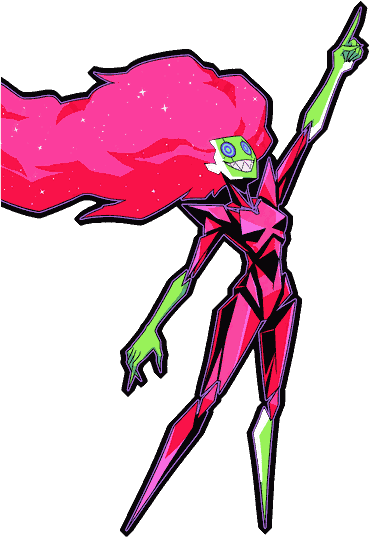
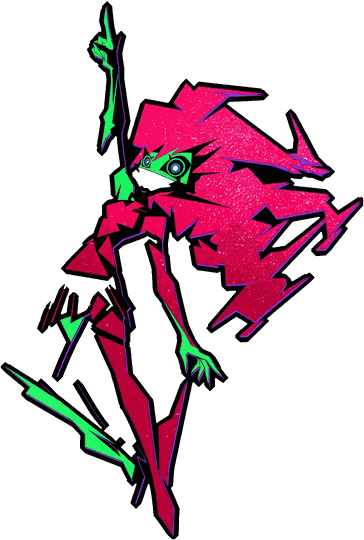
capri-shell 0.6.4: the point, redone on model

diff --git a/src/renderer/js/poses.js b/src/renderer/js/poses.js
@@ -11,8 +11,8 @@ export const POSES = {
   sit: { file: 'pose-sit.png', anchor: { x: 432, y: 552 } },
   // generated (Nano Banana, show frames as references, round 1 variant 4): crouched, arms around her knees
   crouch: { file: 'pose-crouch.png', anchor: { x: 196, y: 548 } },
-  // generated (round 2 variant 2): the point at the sky, mane streaming back
-  point: { file: 'pose-point.png', anchor: { x: 166, y: 536 } },
+  // generated (round 3, show frames only, variant 4): the point at the sky, the cloud streaming back
+  point: { file: 'pose-point.png', anchor: { x: 172, y: 538 } },
   // generated (round 2 retry, show laugh frames as references, variant 3): the cackle, mane exploded
   cackle: { file: 'pose-cackle.png', anchor: { x: 152, y: 498 } },
 };

diff --git a/README.md b/README.md
@@ -35,6 +35,7 @@ npm test
 
 ## Versions
 
+- 0.6.4: the point redone on show frames only (Dennis: the first did not look like her).
 - 0.6.3: make-pose takes `--height` (the figure's height in sprite px) and cuts at full resolution.
 - 0.6.2: the cackle (retry with the show's laugh frames only; one of four kept).
 - 0.6.1: the point at the sky (round 2, one of four kept).
